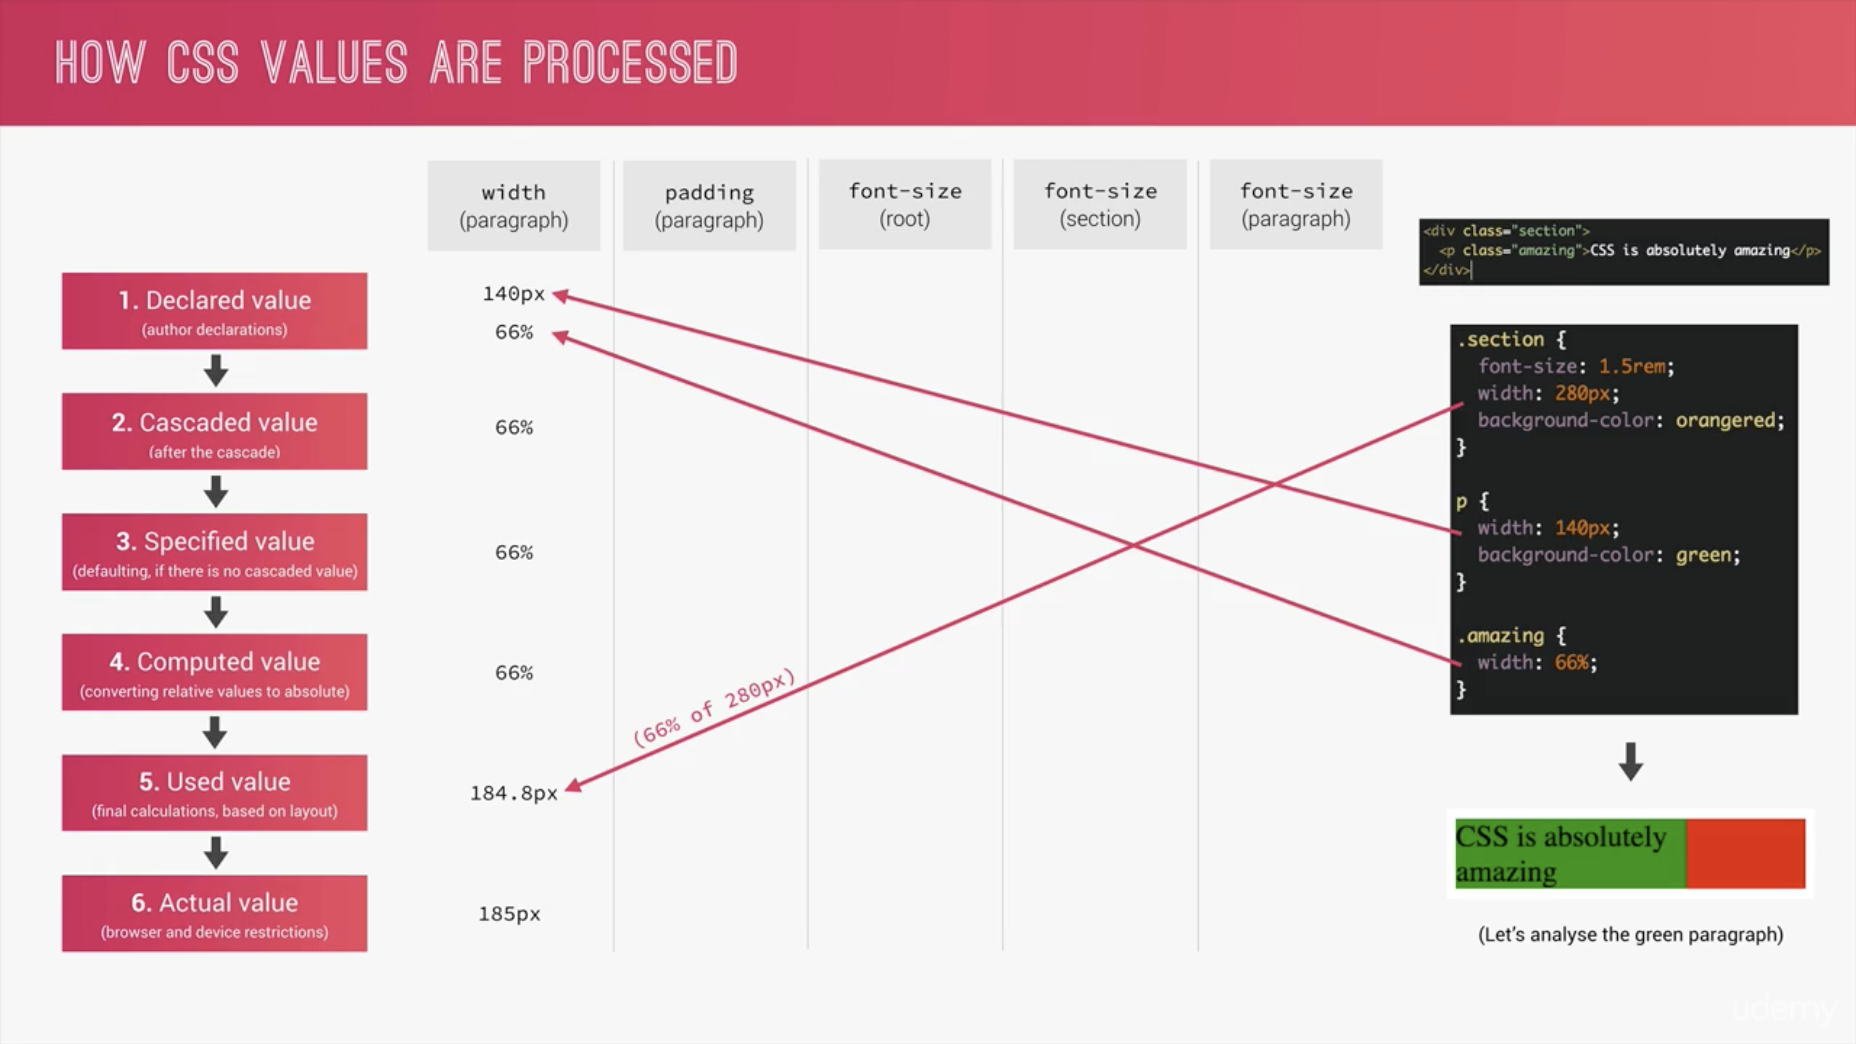
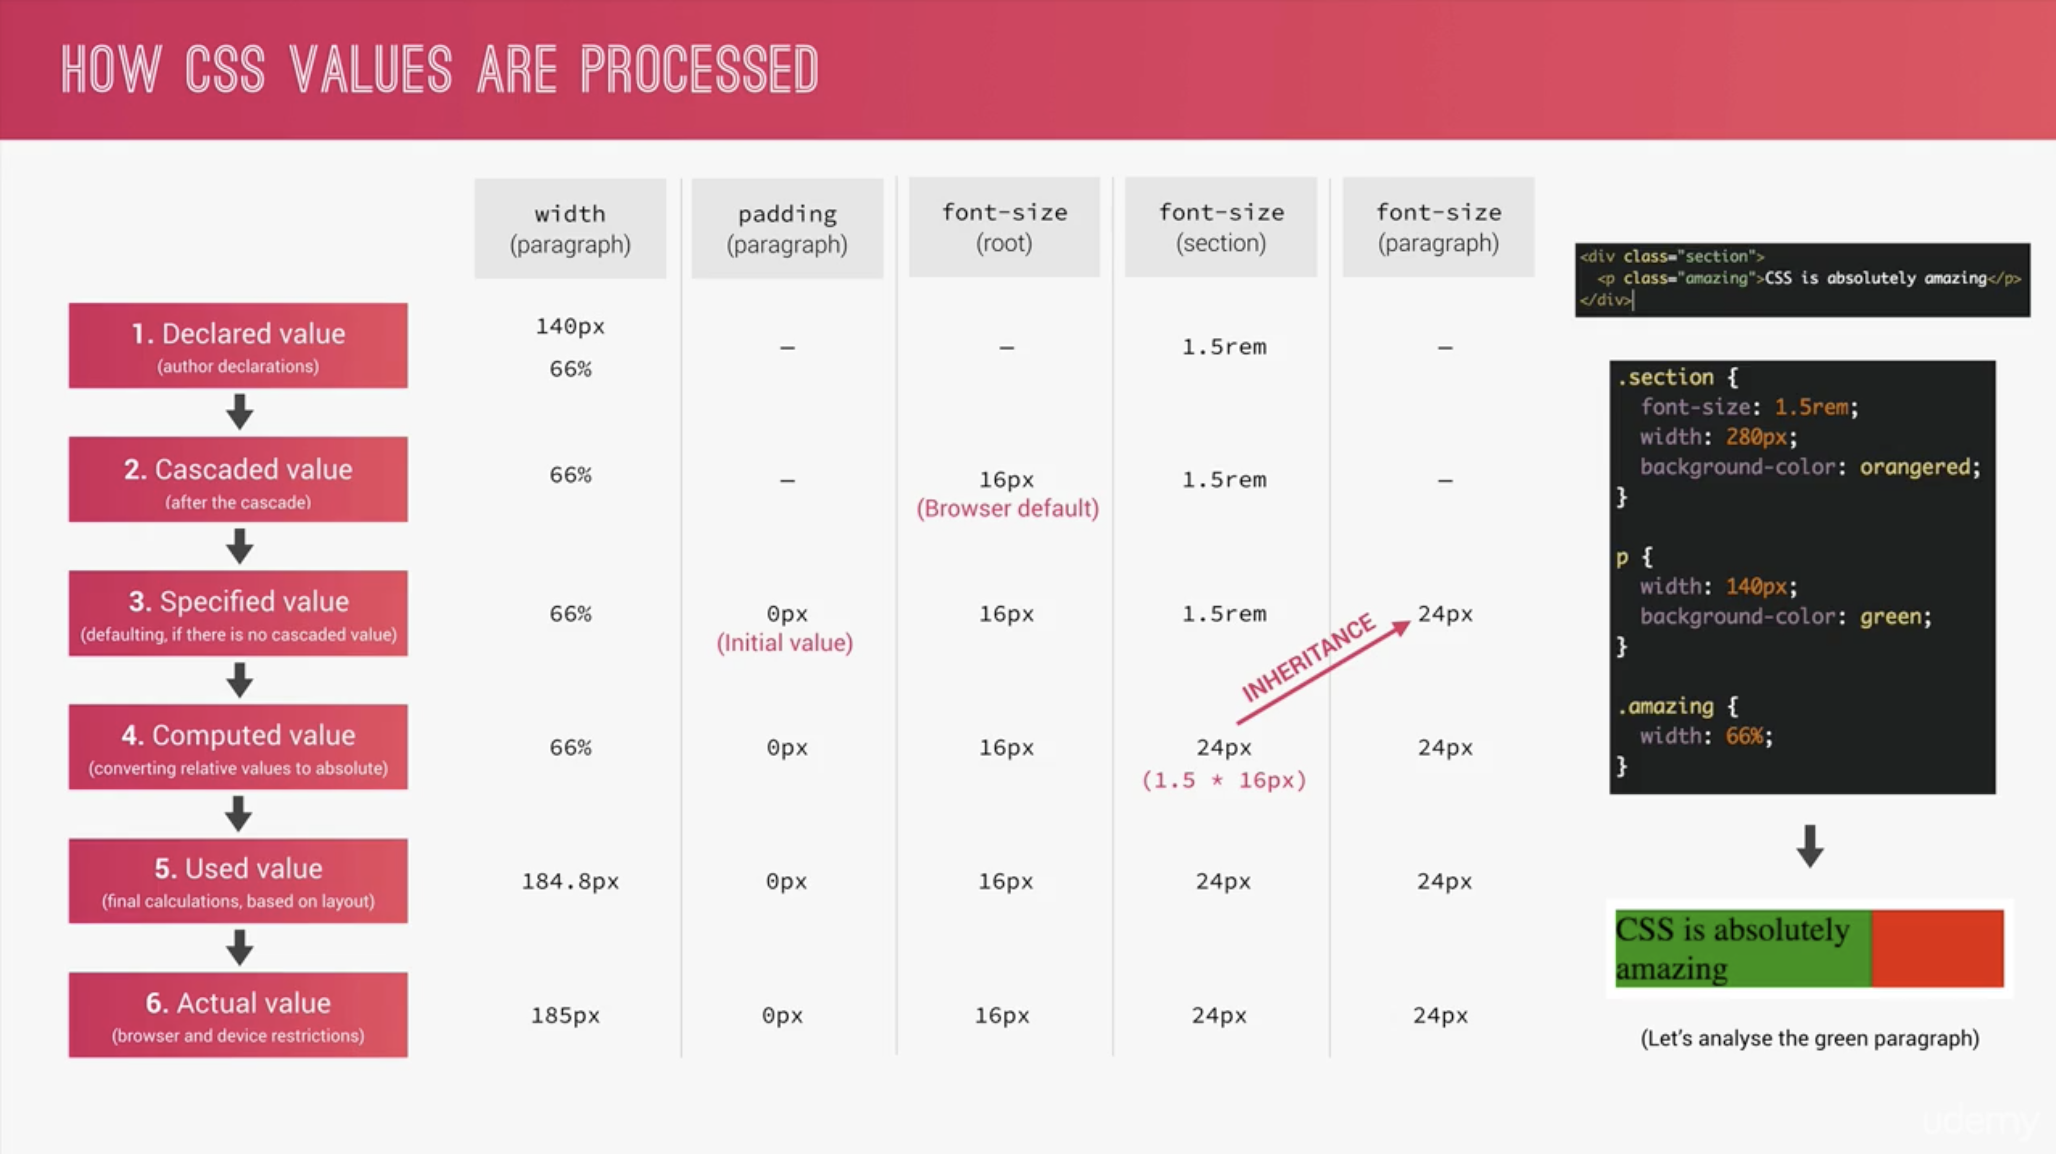
value processing

diff --git a/advanced_css/natours/docs/day2.md b/advanced_css/natours/docs/day2.md
@@ -16,7 +16,6 @@
 
 #### Day 2
 
-🍇 🍊 🍋 🍌 🍍 🍎 🍏 🍐 🍑 🍒 🍓 🥝 🍅
 ##### Specificity
 
 🍉 `specificity` in action:
@@ -49,11 +48,30 @@ Ideally, When hovering around this button, background-color should turn into yel
 ##### Value Processing
 
 🍇 Overview slide
+
 ![Overview](img/day2_value.png)
 
+🍊 Each property has an initial value, used if nothing is declared
 
-## Daily End Product:
-![Day1](../progress/day1.png)
+🍋 Browsers specify a `root font-size` for each page (usually 16px)
+
+🍌 Percentages are measured relative to their **parent’s** `font-size`
+
+🍍 `em` are measured relative to their **parent** `font-size`, if used to specify font-size;
+
+🍍 `em` are measured relative to the **current** `font-size`, if used to specify lengths;
+
+🍎 `rem` are always measured relative to the document’s **root** `font-size`;
+
+🍏 `vh` and `vw` are simply percentage measurements of the viewport’s height and width.
+
+
+
+
+🍐 🍑 🍒 🍓 🥝 🍅
+
+
+
 
 
 ## License
